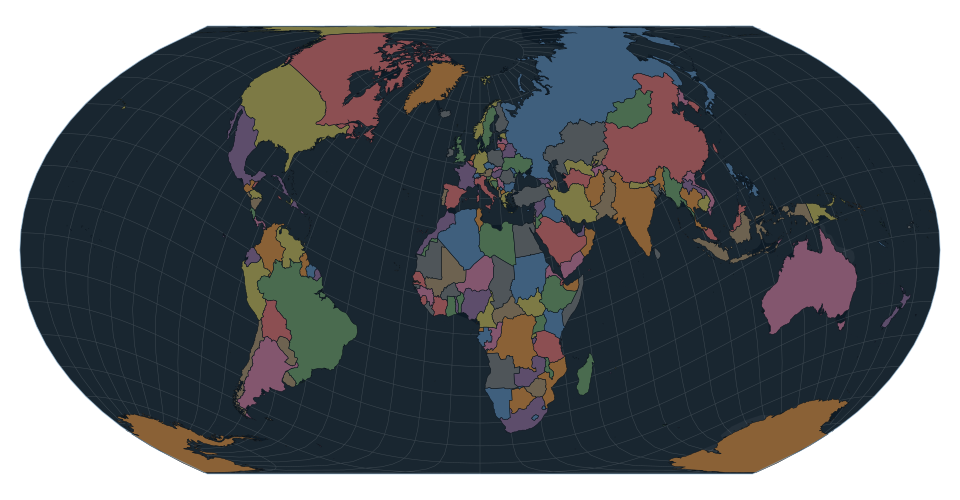
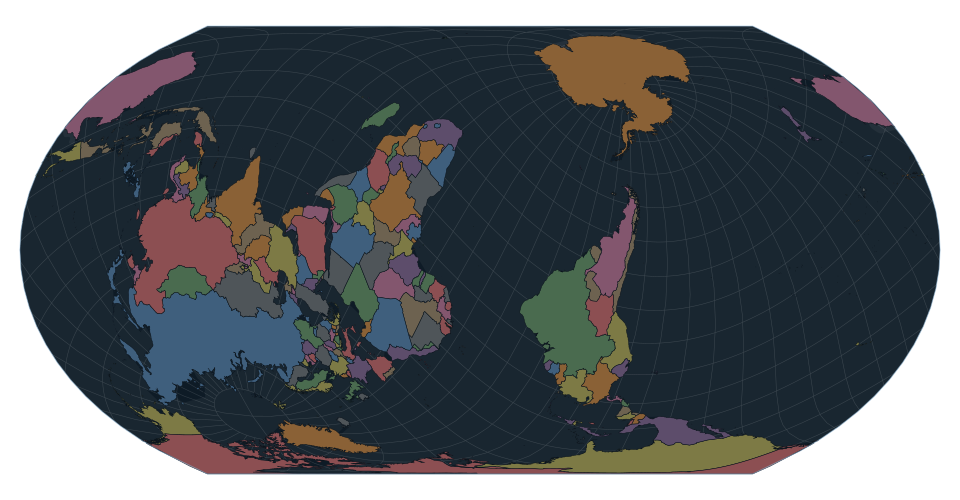
feat: land the opening turn on an oblique view rather than a plain flip
The opening turn ended at [0, 0, 180]: the map upside down on the prime
meridian. That is not actually an oblique aspect. A pure roll leaves the
projection's frame aligned with the graticule — the parallels stay straight and
the poles stay on the vertical axis — so it reads as the same familiar map with
the page turned over.

The default is now [12, 12, 144]: centred near 12°W 12°S and rolled 144°, which
puts Africa in the middle and upside down. Bringing yaw and pitch into it tilts
the projection's frame away from the Earth's, which is the thing this project
exists to show and is visible immediately in the curved grid. The turn from the
north-up view now demonstrates obliqueness instead of just inversion.

Prose and the README stills updated to match, and the default is asserted
rather than left as a literal scattered through the tests.

diff --git a/src/components/equal-earth-element.js b/src/components/equal-earth-element.js
@@ -25,8 +25,17 @@ import {prefersReducedMotion} from "./motion.js";
 
 export const TAG = "equal-earth-map";
 
-/** Opening view: Greenwich centred, map inverted. North is down. */
-export const DEFAULT_ROTATION = [0, 0, 180];
+/**
+ * Where the opening turn ends: an oblique view centred near 12°W 12°S and
+ * rolled 144°, which lands Africa in the middle and upside down.
+ *
+ * Deliberately oblique rather than merely inverted. A plain 180° roll is still
+ * the *normal* aspect with the page turned over — the parallels stay straight
+ * and the poles stay on the vertical axis. Bringing yaw and pitch in tilts the
+ * projection's own frame away from the graticule, which is the thing this
+ * project exists to show, and it is visible immediately in the curved grid.
+ */
+export const DEFAULT_ROTATION = [12, 12, 144];
 
 /**
  * Where the opening drift starts: the north-up, Atlantic-centred view everyone
@@ -127,7 +136,7 @@ const defaultLoadJson = async (url) => {
   return response.json();
 };
 
-/** "0, 0, 180" -> [0, 0, 180]; anything unparseable -> null. */
+/** "12, 12, 144" -> [12, 12, 144]; anything unparseable -> null. */
 export function parseRotation(text) {
   if (typeof text !== "string") return null;
   const parts = text.split(",").map((p) => Number(p.trim()));

diff --git a/test/embed.test.js b/test/embed.test.js
@@ -465,3 +465,31 @@ describe("the axis controls", () => {
     expect(STYLES).toMatch(/\.eq-value\s*\{[^}]*tabular-nums/);
   });
 });
+
+describe("the default opening view", () => {
+  test("is the documented oblique orientation", () => {
+    expect(DEFAULT_ROTATION).toEqual([12, 12, 144]);
+  });
+
+  test("is genuinely oblique, not merely upside down", () => {
+    // A pure roll leaves yaw and pitch at zero and keeps the normal aspect.
+    const [yaw, pitch] = DEFAULT_ROTATION;
+    expect(yaw === 0 && pitch === 0).toBe(false);
+  });
+
+  test("is where an unconfigured mount ends up", async () => {
+    const c = await mount(host(), {data: DATA, intro: false});
+    expect(c.getRotation()).toEqual(DEFAULT_ROTATION);
+  });
+
+  test("is where the opening turn lands", async () => {
+    const frames = frameRunner();
+    const c = await mount(host(), {data: DATA, introDuration: 1000});
+    frames.drain();
+    expect(c.getRotation()).toEqual(DEFAULT_ROTATION);
+  });
+
+  test("keeps pitch inside the range the sliders can show", () => {
+    expect(Math.abs(DEFAULT_ROTATION[1])).toBeLessThanOrEqual(90);
+  });
+});

diff --git a/scripts/snapshot.js b/scripts/snapshot.js
@@ -44,7 +44,8 @@ const named = (name) => ALL_VIEWS.find((v) => v.name === name);
 
 const shots = [
   // The opening view: Greenwich front, upside down. Mirrors INITIAL_ROTATION.
-  {name: "00-opening-view", rotate: [0, 0, 180]},
+  {name: "00-opening-view", rotate: [12, 12, 144]},
+  {name: "00b-default-final-dark", rotate: [12, 12, 144], theme: "dark"},
   // The two stills used in the README.
   {name: "readme-light", rotate: [-10, -25, 0], theme: "light"},
   {name: "readme-dark", rotate: [-10, -25, 0], theme: "dark"},

diff --git a/README.md b/README.md
@@ -1,10 +1,13 @@
 # Oblique Equal Earth
 
 An equal-area world map you re-centre by **rotating the globe**, not by zooming.
-It opens on the familiar north-up view and then **turns**, settling upside down
-on the prime meridian — Greenwich centred, north at the bottom. That one
-movement is the argument: the view you know is an orientation, not a fact.
-Readers who have asked for reduced motion get the final view immediately.
+It opens on the familiar north-up view and then **turns**, settling on an
+oblique orientation — centred near 12°W 12°S and rolled 144°, which puts Africa
+in the middle and upside down. That one movement is the argument: the view you
+know is an orientation, not a fact. Watch the graticule curve as it goes; that
+is the projection's own frame tilting away from the Earth's, which a simple
+flip would never show. Readers who have asked for reduced motion get the final
+view immediately.
 
 ![The map in an oblique, south-up orientation](docs/example.png)
 
@@ -95,7 +98,7 @@ import {mount} from "/equal-earth.js";
 const controller = await mount(document.querySelector("#map"), {
   dataBase: "/equal-earth-data",
   theme: "dark",            // "auto" | "light" | "dark"
-  rotation: [0, 0, 180],    // where the opening turn ends
+  rotation: [12, 12, 144],  // where the opening turn ends
   intro: true,              // false to skip the opening turn
   introDuration: 4000
 });

diff --git a/src/index.md b/src/index.md
@@ -1,8 +1,11 @@
 # Oblique Equal Earth
 
 An equal-area world map you re-centre by **rotating the globe**, not by zooming.
-It opens upside down on the prime meridian — because north-at-the-top is a
-convention about five centuries old, not a property of the planet.
+It opens on the familiar north-up view and then turns, settling on an oblique
+orientation with Africa in the middle and upside down. North-at-the-top is a
+convention about five centuries old, not a property of the planet — and the
+curved grid in the final view is the projection's own frame, tilted away from
+the Earth's.
 
 - **Drag** to swing the world under the projection — whatever you grab stays under the cursor, and you can carry it right over a pole and out the other side.
 - **⌘-drag** (Ctrl-drag on Windows/Linux) or the spin slider to roll the map about the viewing axis.
